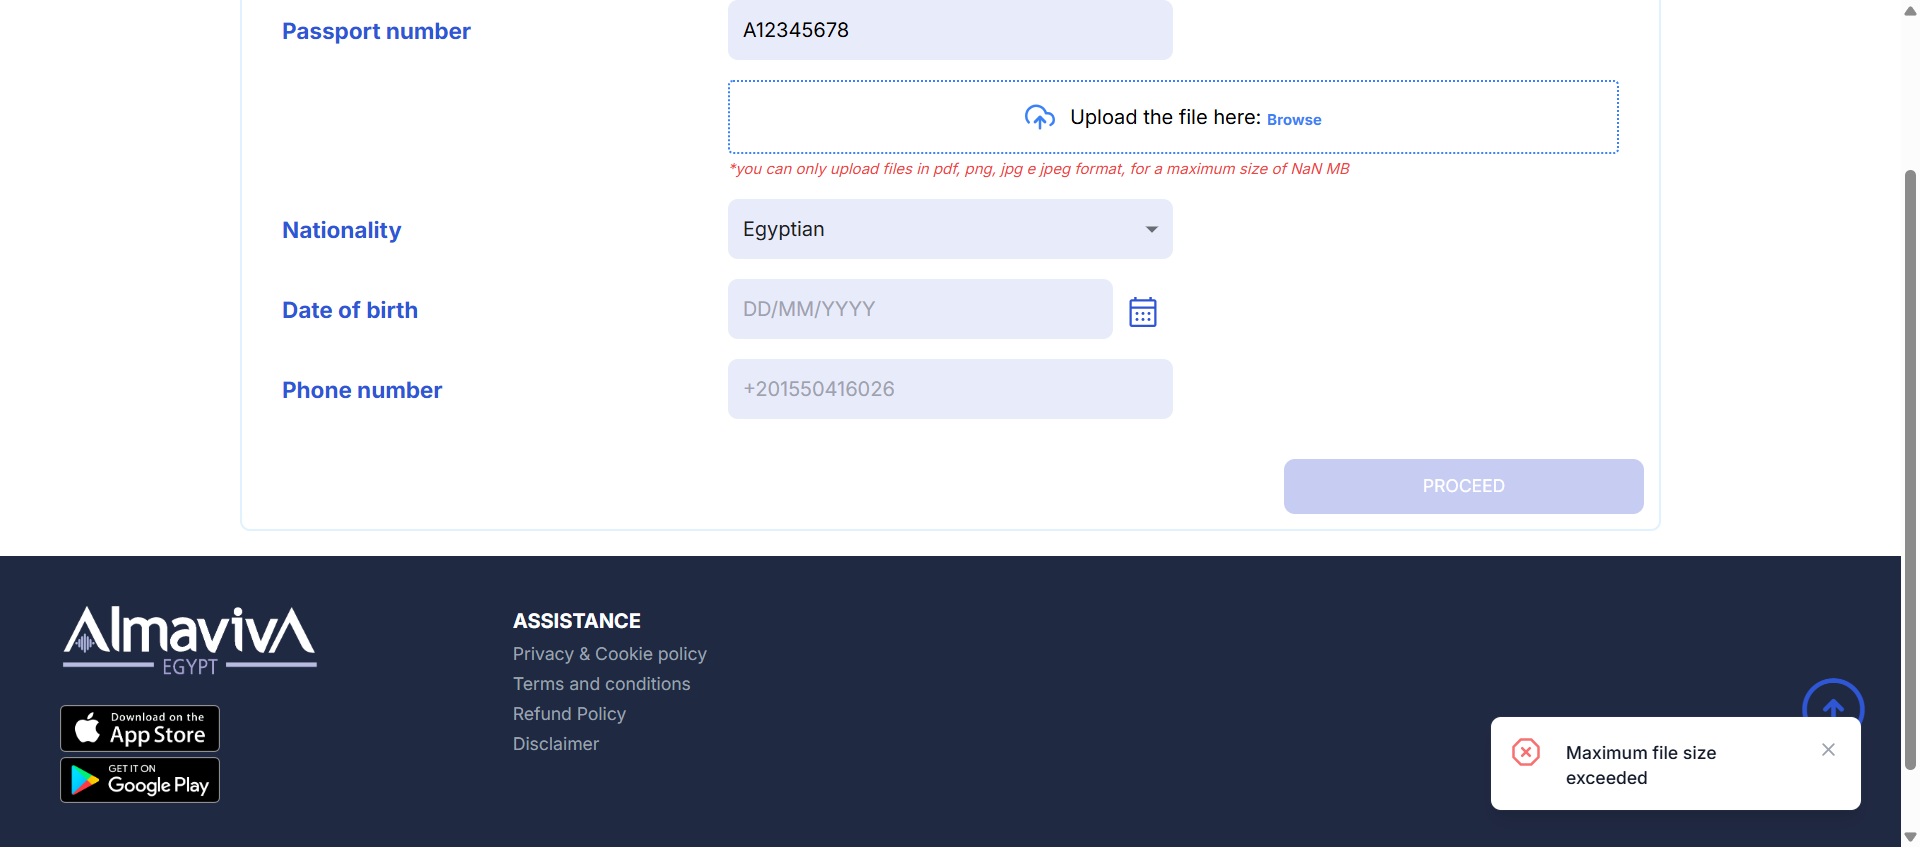
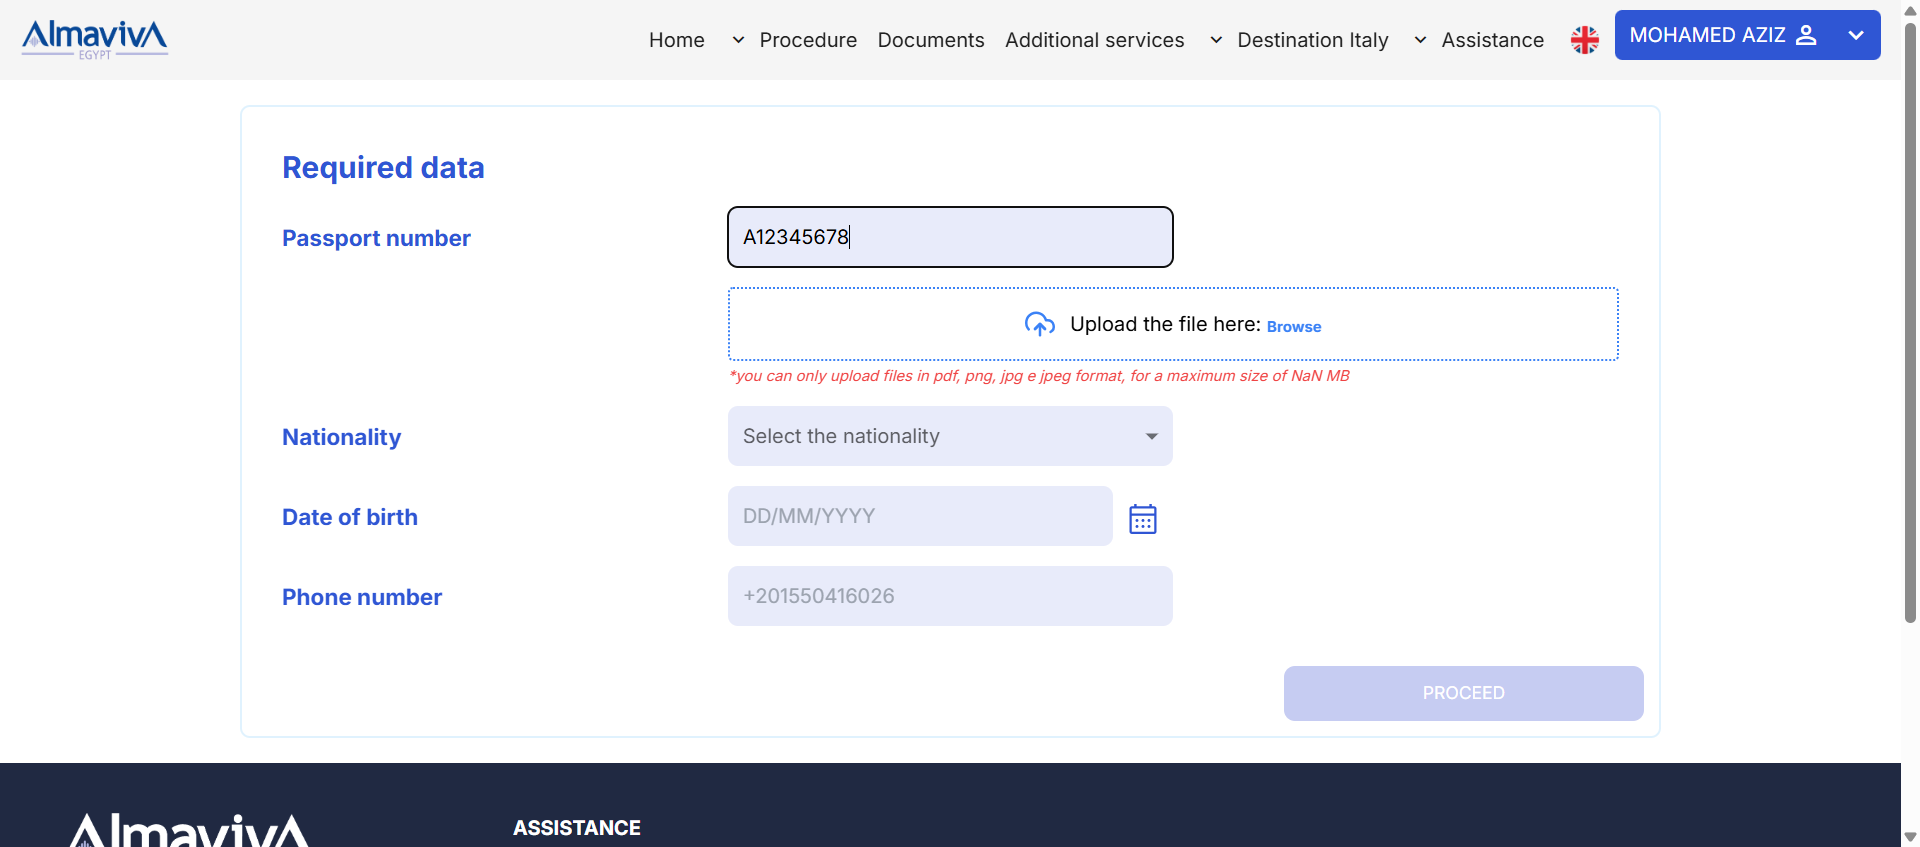
add

diff --git a/booking/management/commands/import_excel.py b/booking/management/commands/import_excel.py
@@ -2,57 +2,52 @@
 
 import pandas as pd
 from django.core.management.base import BaseCommand
-from booking.models import BookingRequest
 from booking.tasks import run_booking_bot_task
 from django.utils.dateparse import parse_date
 
 class Command(BaseCommand):
-    help = "Import booking requests from Excel or CSV and trigger Celery"
+    help = "استيراد الحسابات من ملف Excel وتشغيل البوت لكل حساب"
 
     def add_arguments(self, parser):
-        parser.add_argument('file_path', type=str, help='Path to the Excel or CSV file')
+        parser.add_argument('file_path', type=str, help='مسار ملف الإكسل')
 
     def handle(self, *args, **kwargs):
         file_path = kwargs['file_path']
 
-        # قراءة الملف سواء CSV أو Excel
+        # تحميل الملف
         if file_path.endswith('.csv'):
             df = pd.read_csv(file_path)
         else:
             df = pd.read_excel(file_path)
 
-        required_fields = ['email', 'password', 'passport_number', 'phone_number', 'birth_date', 'nationality']
-        missing_fields = [f for f in required_fields if f not in df.columns]
-        if missing_fields:
-            self.stdout.write(self.style.ERROR(f"الملف ناقص الحقول التالية: {', '.join(missing_fields)}"))
-            return
+        required_columns = ['email', 'password', 'passport_number', 'nationality', 'birth_date', 'phone_number']
+        for col in required_columns:
+            if col not in df.columns:
+                self.stdout.write(self.style.ERROR(f"❌ العمود مفقود: {col}"))
+                return
 
-        created = 0
+        count = 0
         for _, row in df.iterrows():
             try:
                 birth_date = row['birth_date']
-                # إذا كانت القيمة ليست تاريخ من نوع datetime أو str صريح، حاول تحويلها
-                if not pd.isna(birth_date):
-                    if isinstance(birth_date, str):
-                        birth_date = parse_date(birth_date)
-                    elif hasattr(birth_date, 'to_pydatetime'):
-                        birth_date = birth_date.to_pydatetime().date()
-                    else:
-                        birth_date = None
-                else:
-                    birth_date = None
+                if isinstance(birth_date, str):
+                    birth_date = parse_date(birth_date)
+                elif hasattr(birth_date, 'to_pydatetime'):
+                    birth_date = birth_date.to_pydatetime().date()
 
-                booking = BookingRequest.objects.create(
-                    email=row['email'],
-                    password=row['password'],
-                    passport_number=row['passport_number'],
-                    phone_number=row['phone_number'],
-                    birth_date=birth_date,
-                    nationality=row['nationality']
-                )
-                run_booking_bot_task.delay(booking.id)  # ← Celery task
-                created += 1
+                account = {
+                    "email": row['email'],
+                    "password": row['password'],
+                    "passport_number": row['passport_number'],
+                    "nationality": row['nationality'],
+                    "birth_date": birth_date,
+                    "phone_number": row['phone_number'],
+                    "passport_image_path": None  # ضيفها لو عندك مسار في الملف
+                }
+
+                run_booking_bot_task.delay(account)
+                count += 1
             except Exception as e:
-                self.stdout.write(self.style.ERROR(f"فشل في استيراد الصف: {row.to_dict()} بسبب: {e}"))
+                self.stdout.write(self.style.ERROR(f"❌ فشل في {row.get('email')} بسبب: {e}"))
 
-        self.stdout.write(self.style.SUCCESS(f"✅ تم استيراد وتشغيل المهام لـ {created} مستخدمًا"))
+        self.stdout.write(self.style.SUCCESS(f"✅ تم تشغيل البوت لـ {count} حساب"))

diff --git a/booking/tasks.py b/booking/tasks.py
@@ -1,34 +1,37 @@
-from celery import shared_task
-from concurrent.futures import ThreadPoolExecutor
+from celery import shared_task, group
 from booking.bot_runner import run_bot
-from booking.models import BookingRequest
 
-@shared_task
-def run_booking_bot_task(booking_id):
+@shared_task(bind=True, max_retries=3, default_retry_delay=60)
+def run_booking_bot_task(self, account_data):
+    """
+    account_data: dict يحتوي على مفاتيح مثل:
+        email, password, passport_number, nationality, birth_date, phone_number, passport_image_path
+    """
     try:
-        booking = BookingRequest.objects.get(id=booking_id)
-        print(f"⏳ Running bot for: {booking.email}")
+        print(f"⏳ Running bot for: {account_data.get('email')}")
 
-        # تمرير كل البيانات المطلوبة إلى run_bot
         success = run_bot(
-            email=booking.email,
-            password=booking.password,
-            passport_number=booking.passport_number,
-            nationality=booking.nationality,
-            birth_date=booking.birth_date,
-            phone_number=booking.phone_number,
-            passport_image_path=booking.passport_image.path if booking.passport_image else None
+            email=account_data.get('email'),
+            password=account_data.get('password'),
+            passport_number=account_data.get('passport_number'),
+            nationality=account_data.get('nationality'),
+            birth_date=account_data.get('birth_date'),
+            phone_number=account_data.get('phone_number'),
+            passport_image_path=account_data.get('passport_image_path')
         )
-        
-        booking.status = "success" if success else "failed"
-        booking.save()
-        print(f"✅ Finished for: {booking.email}")
+
+        print(f"✅ Finished for: {account_data.get('email')} with status: {'success' if success else 'failed'}")
+        return success
+
     except Exception as e:
-        print(f"❌ Error in task for ID {booking_id}: {e}")
+        print(f"❌ Error in task for email {account_data.get('email')}: {e}")
+        raise self.retry(exc=e)
 
 @shared_task
 def run_booking_bot_parallel(accounts):
     """
+    accounts: قائمة dict لكل حساب.
+    مثال:
     accounts = [
         {
             "email": "email1@example.com",
@@ -42,19 +45,6 @@ def run_booking_bot_parallel(accounts):
         ...
     ]
     """
-    def run_single(account):
-        print(f"🔐 Starting for: {account['email']}")
-        result = run_bot(
-            email=account["email"],
-            password=account["password"],
-            passport_number=account["passport_number"],
-            nationality=account["nationality"],
-            birth_date=account["birth_date"],
-            phone_number=account["phone_number"],
-            passport_image_path=account.get("passport_image_path")
-        )
-        print(f"✅ {account['email']} → Success: {result}")
-        return result
-
-    with ThreadPoolExecutor(max_workers=len(accounts)) as executor:
-        executor.map(run_single, accounts)
+    tasks = [run_booking_bot_task.s(account) for account in accounts]
+    job = group(tasks)()
+    return job.id

diff --git a/booking/views.py b/booking/views.py
@@ -50,7 +50,7 @@ class UploadAccountsView(APIView):
         if not excel_file:
             return Response({"error": "File is required"}, status=status.HTTP_400_BAD_REQUEST)
 
-        # تحقق بسيط من نوع الملف
+        # التحقق من نوع الملف
         if not excel_file.name.endswith(('.xls', '.xlsx')):
             return Response({"error": "Invalid file type. Please upload an Excel file."}, status=status.HTTP_400_BAD_REQUEST)
 
@@ -59,10 +59,39 @@ class UploadAccountsView(APIView):
         except Exception as e:
             return Response({"error": f"Error reading Excel file: {str(e)}"}, status=status.HTTP_400_BAD_REQUEST)
 
-        if "email" not in df.columns or "password" not in df.columns:
-            return Response({"error": "Excel must have 'email' and 'password' columns"}, status=status.HTTP_400_BAD_REQUEST)
+        required_columns = ['email', 'password', 'passport_number', 'phone_number', 'birth_date', 'nationality']
+        missing_columns = [col for col in required_columns if col not in df.columns]
+        if missing_columns:
+            return Response({"error": f"Missing columns in Excel: {', '.join(missing_columns)}"}, status=400)
 
-        accounts = df[["email", "password"]].values.tolist()
+        accounts = []
+        for _, row in df.iterrows():
+            try:
+                birth_date = row['birth_date']
+                if isinstance(birth_date, str):
+                    from django.utils.dateparse import parse_date
+                    birth_date = parse_date(birth_date)
+                elif hasattr(birth_date, 'to_pydatetime'):
+                    birth_date = birth_date.to_pydatetime().date()
+
+                accounts.append({
+                    "email": row['email'],
+                    "password": row['password'],
+                    "passport_number": row['passport_number'],
+                    "nationality": row['nationality'],
+                    "birth_date": birth_date,
+                    "phone_number": str(row['phone_number']),
+                    "passport_image_path": row.get('passport_image_path')  # اختياري لو موجود
+                })
+            except Exception as e:
+                print(f"❌ Error in row: {row} → {e}")
+                continue
+
+        if not accounts:
+            return Response({"error": "No valid accounts found in the file."}, status=400)
+
+        # إرسال المهام إلى celery
+        from .tasks import run_booking_bot_parallel
         run_booking_bot_parallel.delay(accounts)
 
-        return Response({"message": f"{len(accounts)} accounts processing started."}, status=status.HTTP_200_OK)
+        return Response({"message": f"✅ Started processing {len(accounts)} accounts."}, status=200)
